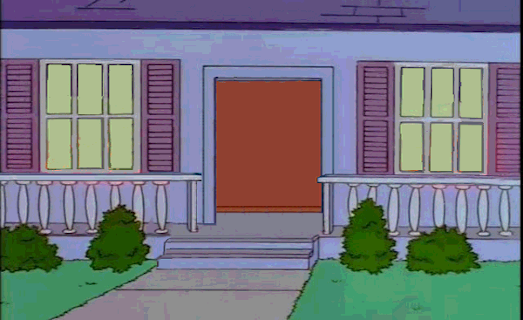
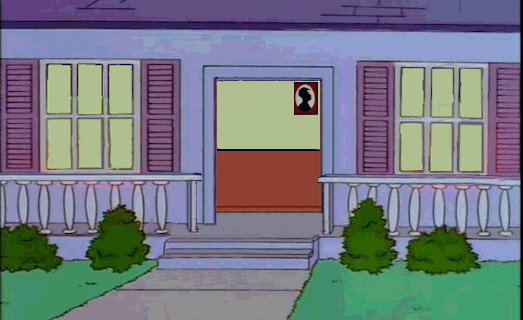
better front door!

Changed region(s): [[0.3977, 0.25, 0.6119, 0.4688]]

diff --git a/src/steamed-hams/game-data.js b/src/steamed-hams/game-data.js
@@ -5,7 +5,7 @@ import { Character, WorldItem, Room, EffectZone, Foreground, Verb, InventoryItem
 
 var sprites = [
 
-  new Sprite ('door',  require('./sprites/door.png'), [3,1]),
+  new Sprite ('door',  require('./sprites/frontDoor.png'), [5,1]),
   new Sprite ('front_fence',  require('./sprites/fence_front.png'), [1,1]),
   new Sprite ('table',  require('./sprites/table.png'), [1,1]),
   new Sprite ('iceBucket',  require('./sprites/ice-bucket.png'), [1,1]),
@@ -112,10 +112,10 @@ var characterModels = {
 
 var worldItemModels = {
     door: new WorldItemModel ({
-        closed: [ ['door',0,0]  ],
-        open:   [ ['door',2,0]  ],
-        opening:   [ ['door',0,0],['door',1,0],['door',2,0]  ],
-        closing:   [ ['door',2,0],['door',1,0],['door',0,0]  ],
+        closed: [ ['door',4,0]  ],
+        open:   [ ['door',3,0]  ],
+        opening:   [ ['door',4,0],['door',0,0],['door',1,0],['door',2,0],['door',3,0]  ],
+        closing:   [ ['door',3,0],['door',2,0],['door',1,0],['door',0,0],['door',4,0]  ],
     }),
     kitchen_door: new WorldItemModel ({
         closed: [ ['k-dr',3,2]  ],
@@ -263,7 +263,7 @@ var makeRooms = function(){ return [
             new WorldItem('bush_2','bush',[120,49,20,-15],60,70,undefined,null,{noZoneScaling:true}),
             new WorldItem('bush_3','bush',[370,44,-20,-10],55,80,undefined,null,{noZoneScaling:true}),
             new WorldItem('bush_4','bush',[445,44,-20,-10],70,50,undefined,null,{noZoneScaling:true}),
-            new WorldItem('front_door','door',[268,90,5,-10],130,160,'closed',worldItemModels.door, {noZoneScaling:true}),
+            new WorldItem('front_door','door',[268,89,5,-10],123,160,'closed',worldItemModels.door, {noZoneScaling:true}),
             new WorldItem('window_fire','fire',[432,124],120,152,'neutral',worldItemModels.fireInWindow,{unclickable:true,removed:true, noZoneScaling:true,}),
         ],
 
